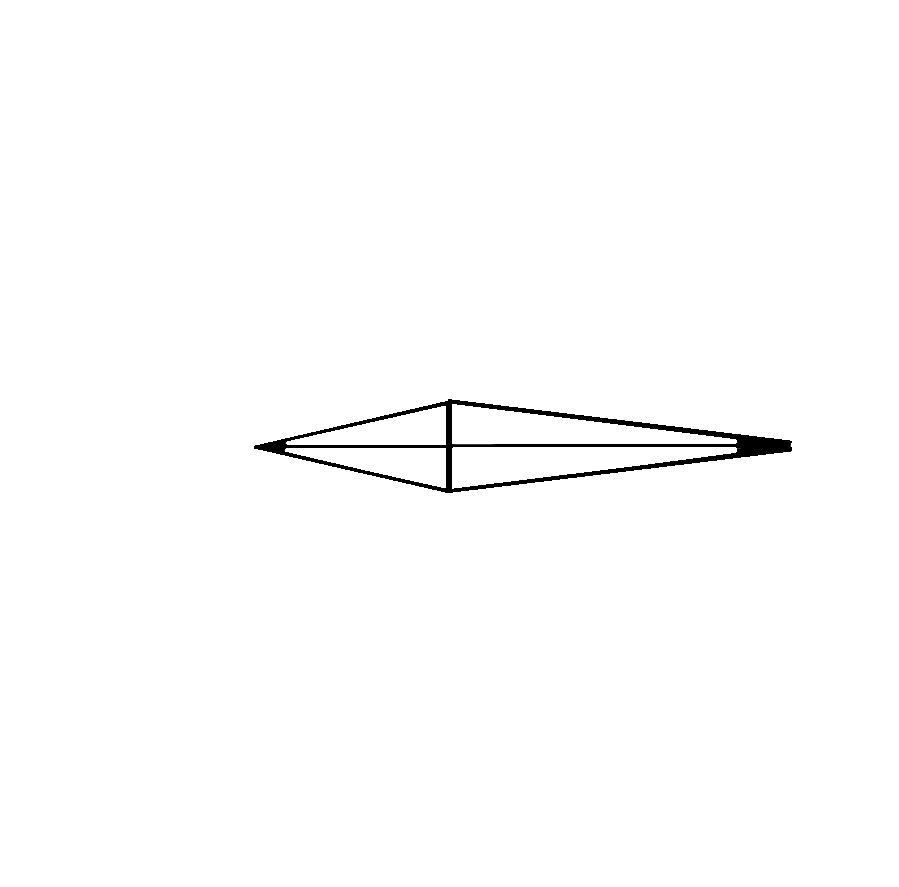
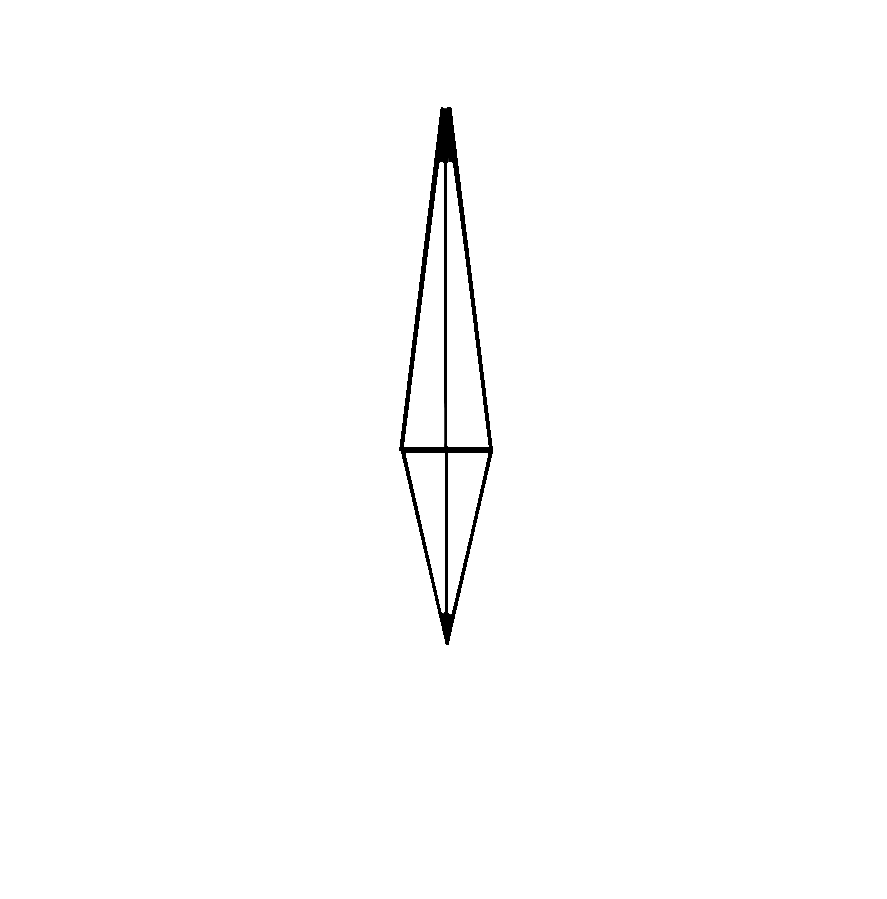
Update: Kompass verbessert. exakte Grad-Anzeige hinzugefügt

Changed region(s): [[0.274, 0.1218, 0.8828, 0.7306]]

diff --git a/app/screens/compass.js b/app/screens/compass.js
@@ -5,11 +5,11 @@ import { ThemeContext } from '../../ThemeContext'; // Import the ThemeContext
 
 export default function Compass() {
   const { isDarkMode } = useContext(ThemeContext);
-  const [magnetometerData, setMagnetometerData] = useState({ x: 0, y: 0, z: 0 });
+  const [magnetometerData, setMagnetometerData] = useState(null);
   const angle = useState(new Animated.Value(0))[0];
 
   useEffect(() => {
-    _subscribe();
+    _toggle();
     return () => {
       _unsubscribe();
     };
@@ -26,6 +26,14 @@ export default function Compass() {
     }
   }, [magnetometerData]);
 
+  const _toggle = () => {
+    if (magnetometerData) {
+      _unsubscribe();
+    } else {
+      _subscribe();
+    }
+  };
+
   const _subscribe = () => {
     Magnetometer.setUpdateInterval(1000);
     Magnetometer.addListener((data) => {
@@ -40,13 +48,25 @@ export default function Compass() {
   const _degree = (magnetometer) => {
     let { x, y } = magnetometer;
     let angle = Math.atan2(y, x) * (180 / Math.PI);
-    return angle >= 0 ? angle : angle + 360;
+    angle = angle -90; // 90 Grad hinzufügen, um die Ausrichtung anzupassen
+
+    // Sicherstellen, dass der Winkel zwischen 0 und 360 Grad bleibt
+    if (angle > 360) {
+      angle = angle - 360;
+    } else if (angle < 0) {
+      angle = angle + 360;
+    }
+
+    return angle;
   };
 
   const rotate = angle.interpolate({
     inputRange: [0, 360],
     outputRange: ['0deg', '360deg'],
   });
+
+  // Aktuelle Gradzahl berechnen
+  const currentDegree = magnetometerData ? _degree(magnetometerData).toFixed(2) : 'Keine Daten';
 
   return (
     <View style={[styles.container, isDarkMode ? styles.darkContainer : styles.lightContainer]}>
@@ -61,19 +81,13 @@ export default function Compass() {
           <Text style={[styles.directionText, styles.east, isDarkMode ? styles.darkText : styles.lightText]}>E</Text>
           <Text style={[styles.directionText, styles.south, isDarkMode ? styles.darkText : styles.lightText]}>S</Text>
           <Text style={[styles.directionText, styles.west, isDarkMode ? styles.darkText : styles.lightText]}>W</Text>
-          {[0, 90, 180, 270].map((deg) => (
-            <Text key={deg} style={[styles.degreeText, isDarkMode ? styles.darkText : styles.lightText, {
-              transform: [
-                { rotate: `${deg - 90}deg` },
-                { translateX: 80 }, // Kleinere Translation für Gradangaben
-                { rotate: `${90 - deg}deg` },
-              ],
-            }]}>
-              {deg === 0 ? '0°' : `${deg}°`}
-            </Text>
-          ))}
         </View>
       </View>
+
+      {/* Gradposition unterhalb des Kompasses anzeigen */}
+      <Text style={[styles.degreeText, isDarkMode ? styles.darkText : styles.lightText]}>
+        Aktuelle Gradposition: {currentDegree}°
+      </Text>
     </View>
   );
 }
@@ -129,8 +143,7 @@ const styles = StyleSheet.create({
   south: { bottom: 10 },
   west: { left: 10 },
   degreeText: {
-    position: 'absolute',
-    fontSize: 16,
-    color: '#333',
+    fontSize: 18,
+    marginTop: 20,  // Abstand zum Kompass
   },
 });

diff --git a/App.js b/App.js
@@ -8,20 +8,36 @@ import Height from './app/screens/height';
 import LightMeter from './app/screens/lightmeter';
 import Speedometer from './app/screens/speedometer';
 import Settings from './app/screens/settings';
-import { ThemeProvider, ThemeContext, lightTheme, darkTheme } from './ThemeContext'; // Import ThemeContext und ThemeProvider
+import { ThemeProvider, ThemeContext, lightTheme, darkTheme } from './ThemeContext';
+import { StatusBar } from 'expo-status-bar';
+import { SafeAreaView, StyleSheet } from 'react-native';
 
-const Stack = createStackNavigator();
-
+// Haupt-App-Komponente
 export default function App() {
   return (
     <ThemeProvider>
-      <Navigation />
+      <MainApp />
     </ThemeProvider>
   );
 }
 
+// Haupt-App-Layout mit SafeAreaView und Navigation
+function MainApp() {
+  const { isDarkMode } = useContext(ThemeContext);
+
+  return (
+    <SafeAreaView style={[styles.safeArea, { backgroundColor: isDarkMode ? '#000' : '#fff' }]}>
+      <StatusBar style={isDarkMode ? 'light' : 'dark'} />
+      <Navigation />
+    </SafeAreaView>
+  );
+}
+
+// Navigation
+const Stack = createStackNavigator();
+
 function Navigation() {
-  const { isDarkMode } = useContext(ThemeContext); // Greife auf den ThemeContext hier zu
+  const { isDarkMode } = useContext(ThemeContext);
 
   return (
     <NavigationContainer theme={isDarkMode ? darkTheme : lightTheme}>
@@ -36,3 +52,9 @@ function Navigation() {
     </NavigationContainer>
   );
 }
+
+const styles = StyleSheet.create({
+  safeArea: {
+    flex: 1,
+  },
+});

diff --git a/ThemeContext.js b/ThemeContext.js
@@ -1,4 +1,5 @@
-import React, { createContext, useState } from 'react';
+import React, { createContext, useState, useEffect } from 'react';
+import AsyncStorage from '@react-native-async-storage/async-storage';
 
 // Erstelle den ThemeContext
 export const ThemeContext = createContext();
@@ -6,8 +7,31 @@ export const ThemeContext = createContext();
 export const ThemeProvider = ({ children }) => {
   const [isDarkMode, setIsDarkMode] = useState(false);
 
-  const toggleTheme = () => {
-    setIsDarkMode((prevMode) => !prevMode);
+  useEffect(() => {
+    // Lade den gespeicherten Dark Mode Zustand bei der Initialisierung
+    const loadTheme = async () => {
+      try {
+        const savedTheme = await AsyncStorage.getItem('darkMode');
+        if (savedTheme !== null) {
+          setIsDarkMode(JSON.parse(savedTheme));  // true/false Wert zurücksetzen
+        }
+      } catch (e) {
+        console.log("Fehler beim Laden des Themas", e);
+      }
+    };
+    loadTheme();
+  }, []);
+
+  const toggleTheme = async () => {
+    const newDarkMode = !isDarkMode;
+    setIsDarkMode(newDarkMode);
+    
+    try {
+      // Speichere den Zustand des Dark Modes in AsyncStorage
+      await AsyncStorage.setItem('darkMode', JSON.stringify(newDarkMode));
+    } catch (e) {
+      console.log("Fehler beim Speichern des Themas", e);
+    }
   };
 
   const theme = {
